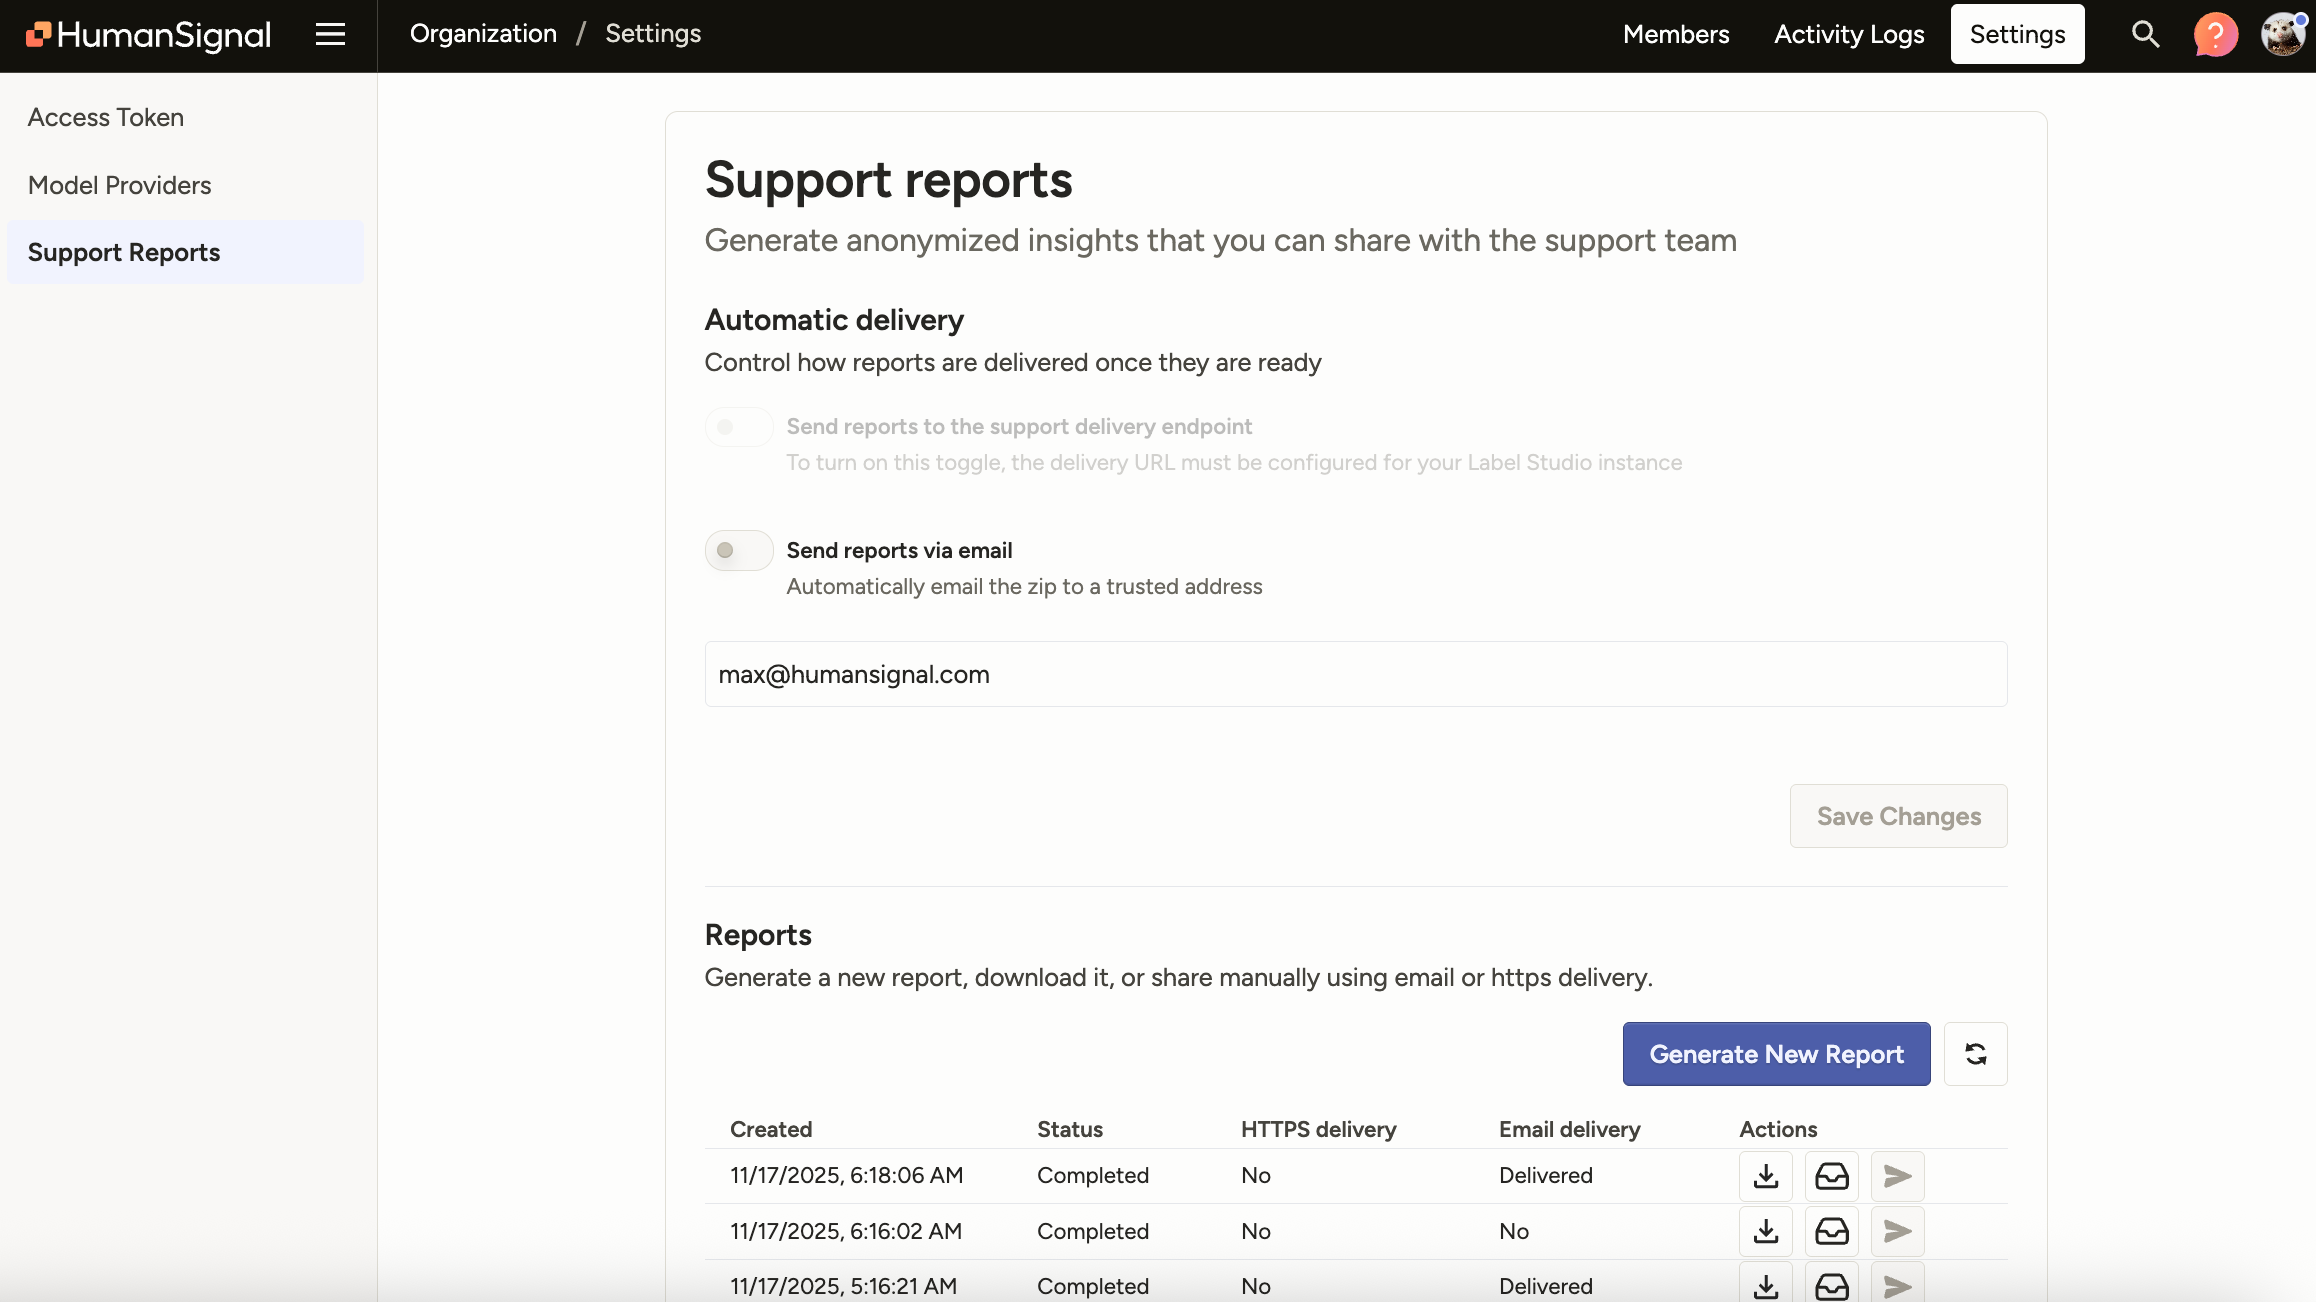
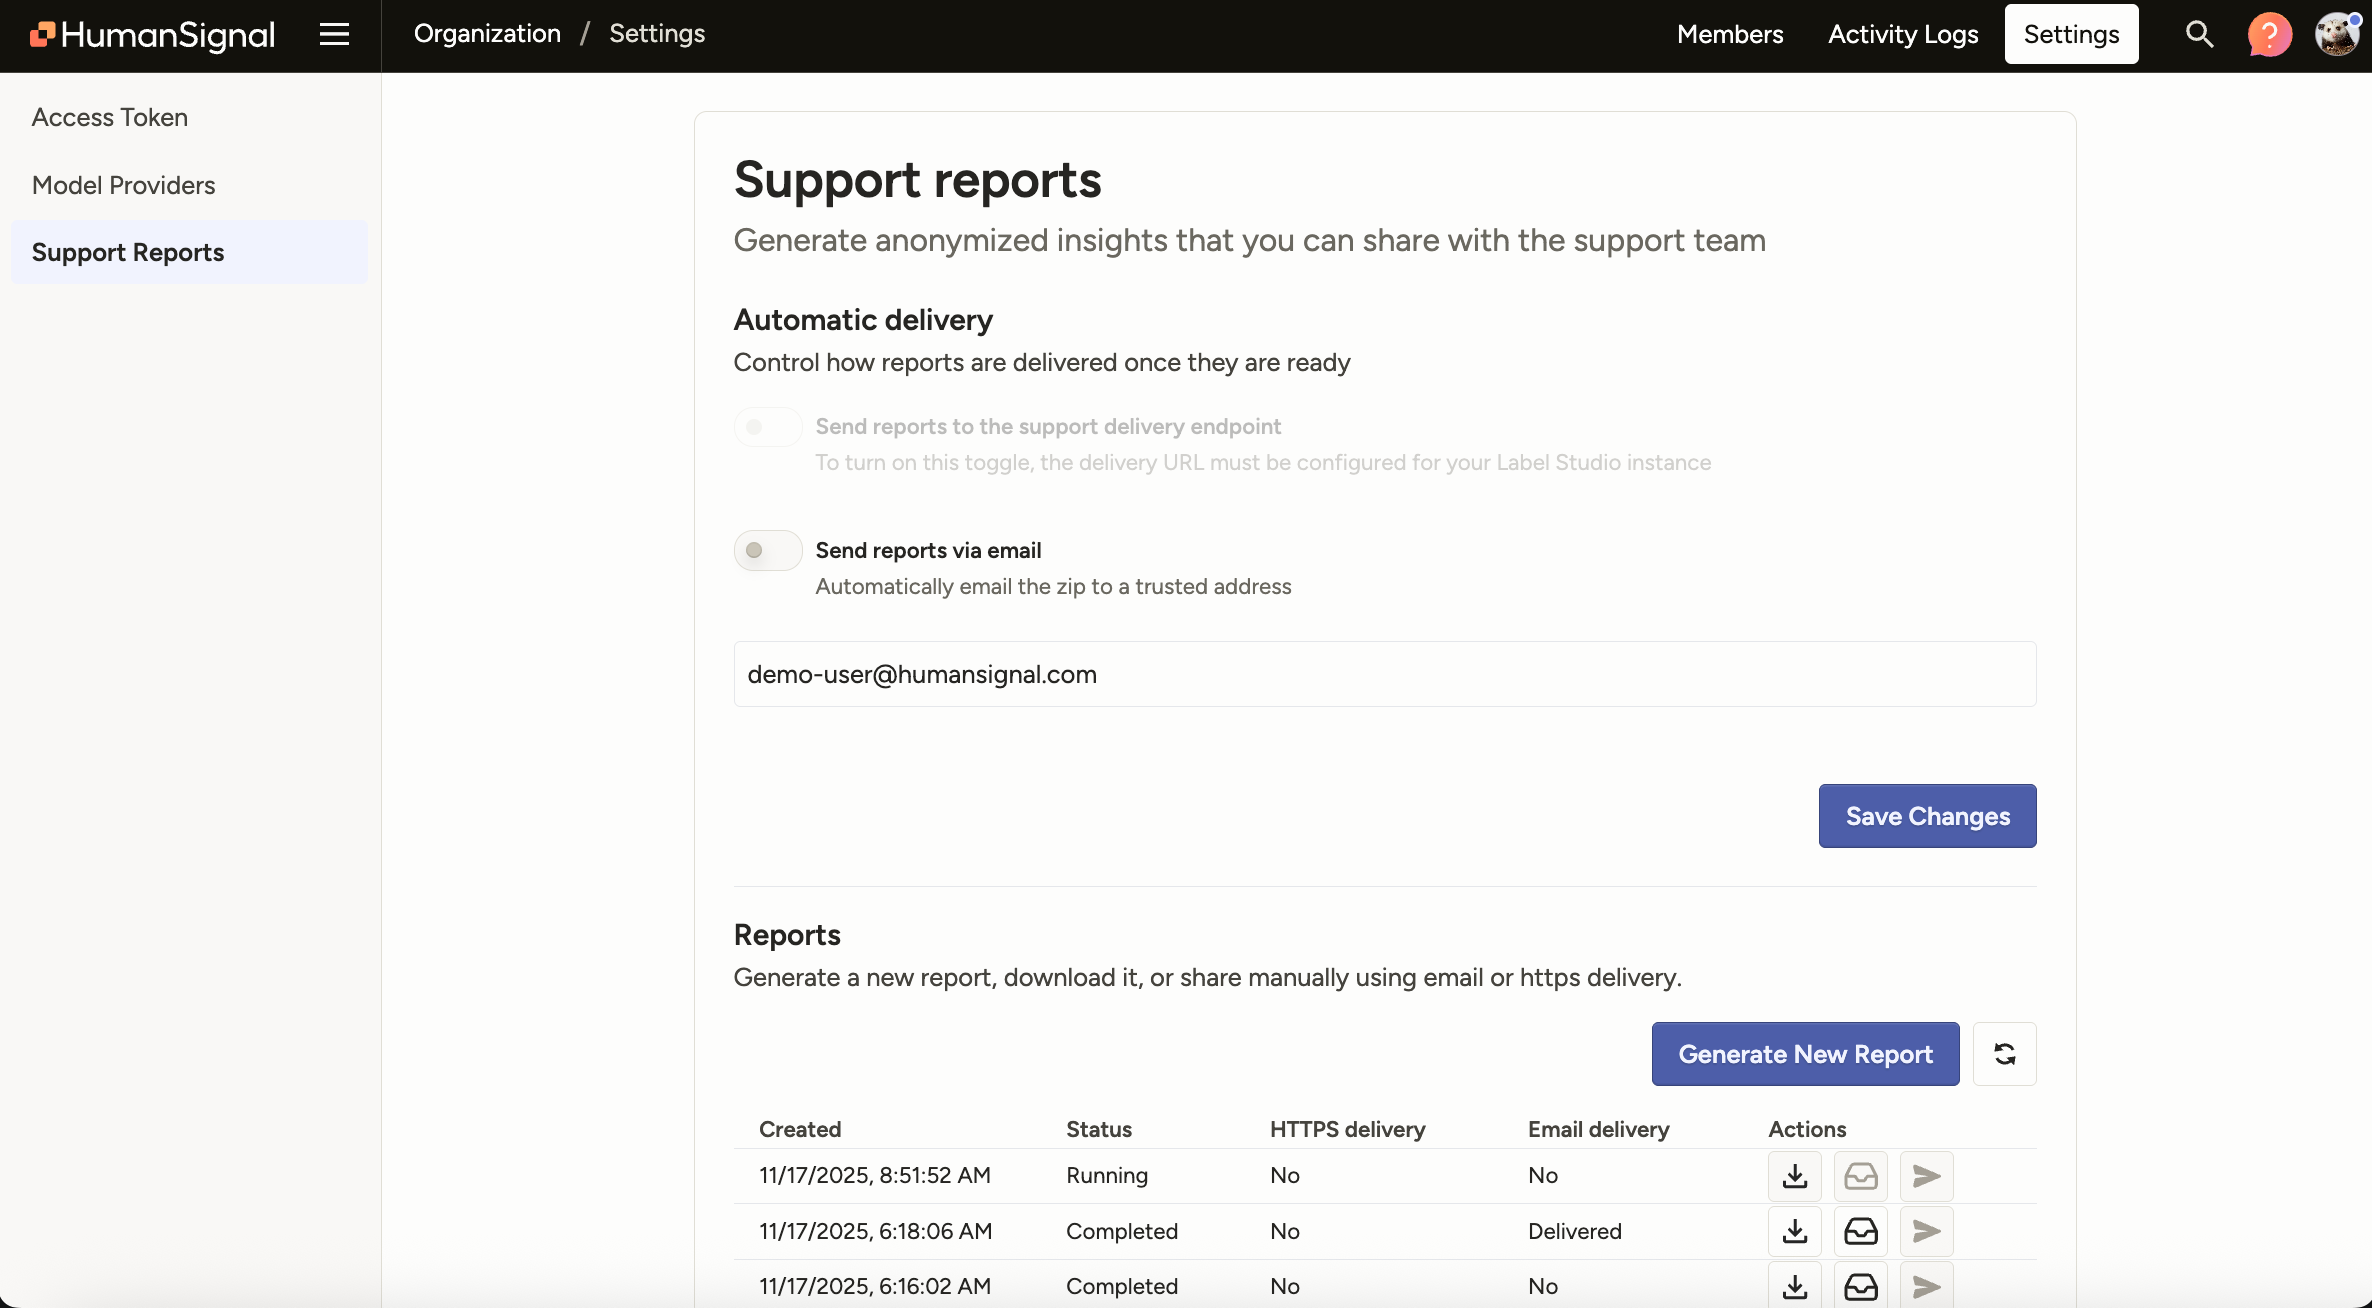
Adding beta tag, updated screenshot, updated settings table

diff --git a/docs/source/guide/admin_settings.md b/docs/source/guide/admin_settings.md
@@ -18,4 +18,4 @@ There are several places where you can configure org-wide settings:
 | [**Access Token**](access_tokens) | Owner<br />Admin | Control which types of access tokens are available in the organization.  | 
 | [**Model Providers**](model_providers)         | Owner<br />Admin | Set up model providers that can be used with [Prompts](prompts_overview) and [Chat](/tags/chat). | 
 | [**Permissions**](admin_permissions)        |  Owner | Customize certain permissions for roles.  | 
-| [**Support reports**](support_reports)      | Owner | Generate anonymized operational reports that help HumanSignal support understand your deployment, diagnose issues, and recommend workflow and performance improvements. |
+| [**Support reports**](support_reports)      | Owner<br />Admin | Generate anonymized operational reports that help HumanSignal support understand your deployment, diagnose issues, and recommend workflow and performance improvements. |

diff --git a/docs/source/guide/support_reports.md b/docs/source/guide/support_reports.md
@@ -1,6 +1,6 @@
 ---
-title: Support reports
-short: Support reports
+title: Support reports - Beta 🧪
+short: Support reports 🧪
 type: guide
 tier: enterprise
 order: 0
